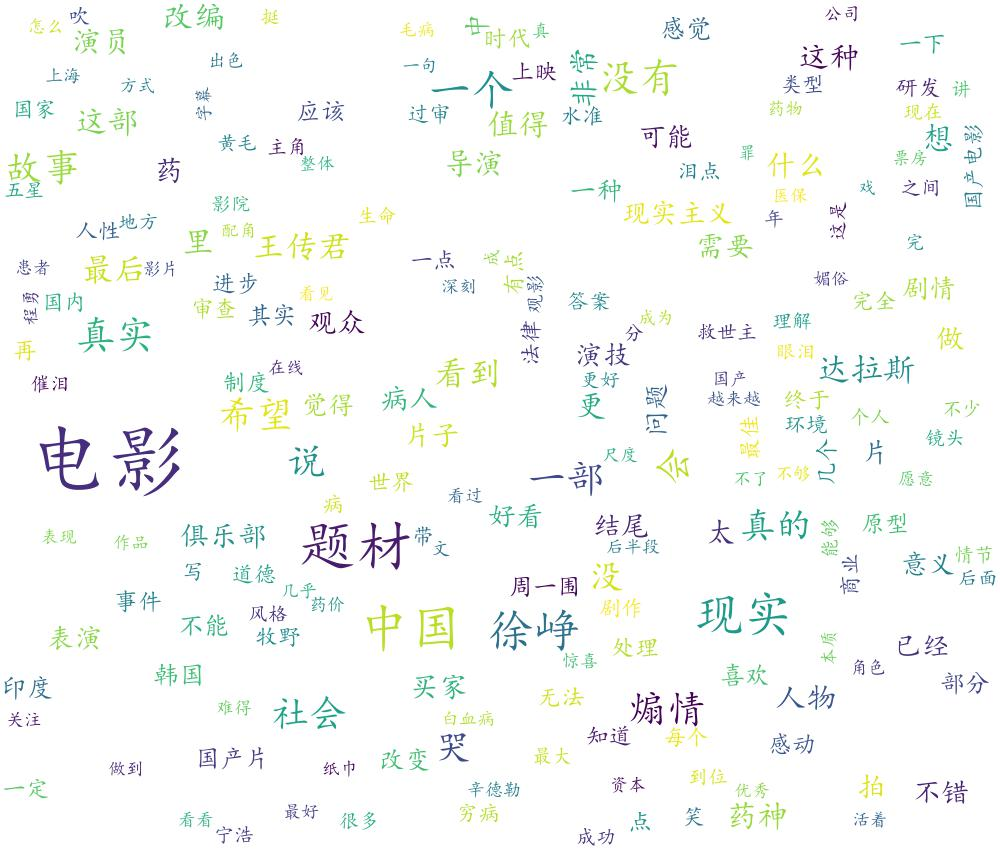
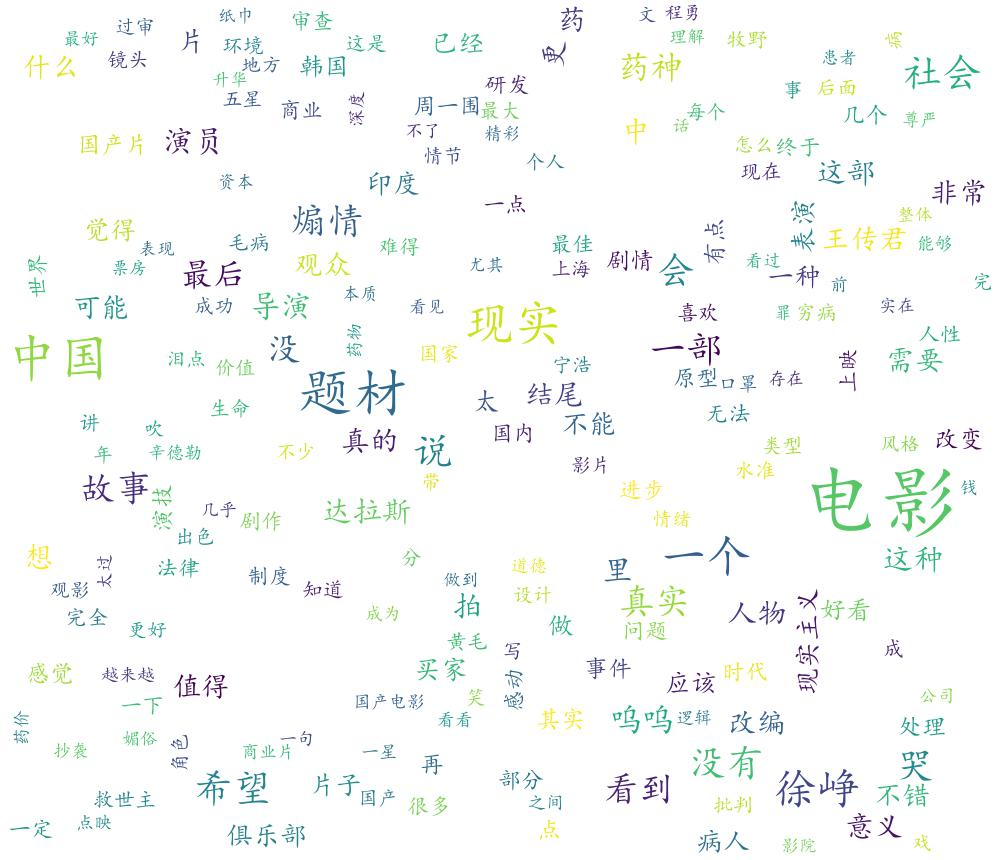
豆瓣网页元素变更 更新节点获取方法

diff --git a/douban_spider.py b/douban_spider.py
@@ -42,9 +42,11 @@ def getCommentsById(movieId, pageNum):
         soup = bs(html_data, "html.parser")
         comment_div_lits = soup.find_all("div", class_="comment")
         for item in comment_div_lits:
-            if item.find_all("p")[0].string is not None:
-                eachCommentList.append(item.find_all("p")[0].string)
-                # print(eachCommentList)
+            # 豆瓣网页元素变更
+            # print(item.find_all(name='span', attrs={"class": "short"})[0].string)
+            if item.find_all(name='span', attrs={"class": "short"})[0].string is not None:
+                eachCommentList.append(item.find_all(name='span', attrs={"class": "short"})[0].string)
+                print(eachCommentList)
     except RequestException as e:
         print("请求问题，原因：%s" % e)
 
@@ -61,7 +63,7 @@ def main(movieId, movieName):
         # 将列表中的数据转换为字符串
     comments = ""
     for k in range(len(commentList)):
-        # print(commentList[k])
+        print(commentList[k])
         for m in range(len(commentList[k])):
             comments = comments + str(commentList[k][m]).strip()
     # print(comments)
@@ -90,7 +92,7 @@ def main(movieId, movieName):
     # 统计词频
     words_stat = words_df.groupby(by=["segment"])["segment"].agg({"计数": numpy.size})
     words_stat = words_stat.reset_index().sort_values(by=["计数"], ascending=False)
-    # print(words_stat)
+    print(words_stat)
 
     # 用词云进行显示
     # wordcloud = WordCloud(font_path="./SimHei.ttf", background_color="white", max_font_size=80, width=1000, height=860,
@@ -119,3 +121,4 @@ if __name__ == "__main__":
     # main("4920389", "头号玩家")
     # main("26366496", "邪不压正")
     main("26752088", "我不是药神")
+    # main("27605698", "西虹市首富")
